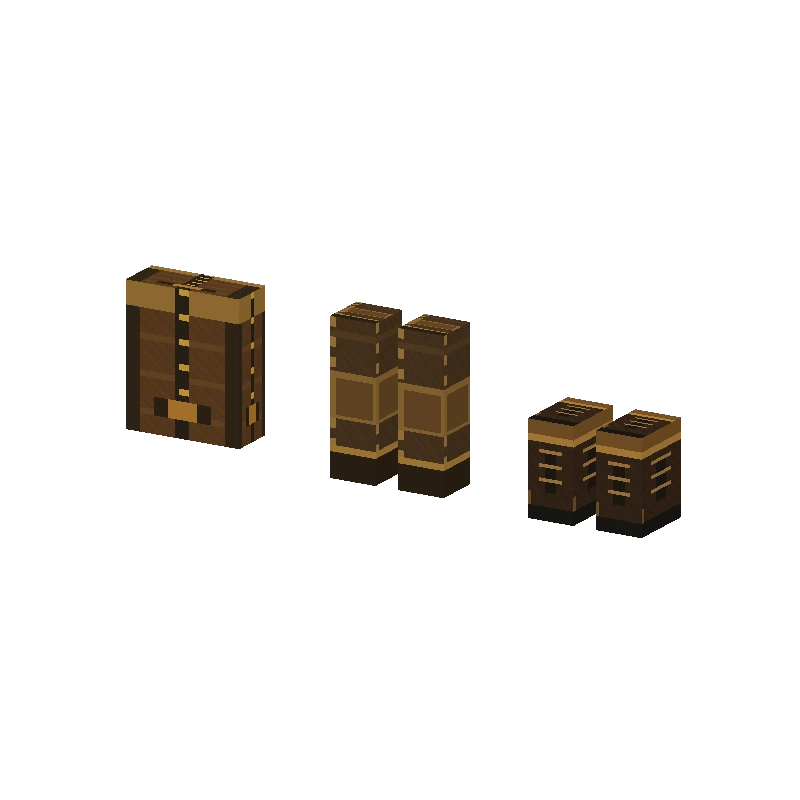
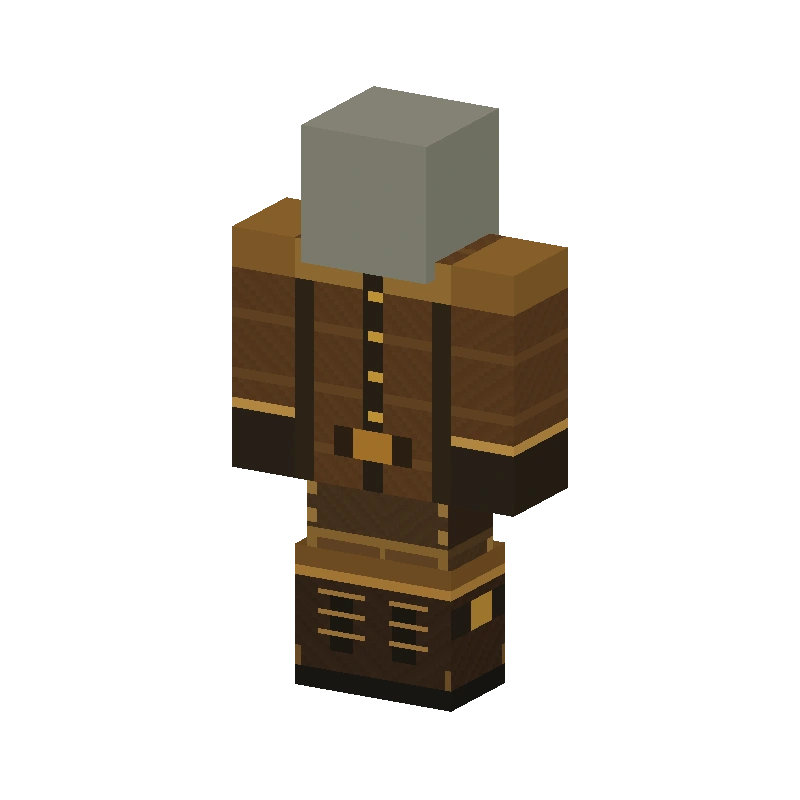
Show regalia worn on mannequins with actual armor textures

Changed region(s): [[0.1562, 0.0938, 0.875, 0.9062]]

diff --git a/components/season-road.tsx b/components/season-road.tsx
@@ -308,7 +308,7 @@ export function SeasonRoad() {
                   <Details reward={reward} />
                   <p className="reward-preview-note">
                     {preview?.source === "game-model"
-                      ? "Rendered from our actual game models and textures. Outfit bundles show the individual pieces. Studio lighting differs from the game."
+                      ? "Rendered from our actual game models and textures. Regalia is shown worn on a neutral mannequin using its in-game armor textures. Studio lighting differs from the game."
                       : reward.kind === "title"
                         ? "Nameplate preview. Your selected title appears with your character’s name."
                         : "Original reward artwork. In-game consumables currently use vanilla item appearances."}

diff --git a/app/season-pass/page.tsx b/app/season-pass/page.tsx
@@ -112,7 +112,7 @@ export default function SeasonPass() {
               src="/season/rewards/hollow_regent_regalia-large.webp"
               width={800}
               height={800}
-              alt="Actual Hollow Regent chest, leggings and boots models"
+              alt="Hollow Regent chest, leggings and boots worn together on a neutral mannequin"
               loading="lazy"
             />
             <img

diff --git a/scripts/render-season-assets.py b/scripts/render-season-assets.py
@@ -80,18 +80,61 @@ def render(polys,angle,size=360):
    w0=((b[1]-c[1])*(x-c[0])+(c[0]-b[0])*(y-c[1]))/den;w1=((c[1]-a[1])*(x-c[0])+(a[0]-c[0])*(y-c[1]))/den;w2=1-w0-w1
    z=w0*a[2]+w1*b[2]+w2*c[2];u=w0*uvt[0,0]+w1*uvt[1,0]+w2*uvt[2,0];vv=w0*uvt[0,1]+w1*uvt[1,1]+w2*uvt[2,1]
    pixels=tex[np.clip((vv*tex.shape[0]).astype(int),0,tex.shape[0]-1),np.clip((u*tex.shape[1]).astype(int),0,tex.shape[1]-1)].copy();pixels[:,:,:3]=(pixels[:,:,:3]*shade).astype(np.uint8)
-   zz=zbuf[mn[1]:mx[1]+1,mn[0]:mx[0]+1];mask=(w0>=-1e-6)&(w1>=-1e-6)&(w2>=-1e-6)&(z>zz)&(pixels[:,:,3]>10)
+   zz=zbuf[mn[1]:mx[1]+1,mn[0]:mx[0]+1];mask=(w0>=-1e-6)&(w1>=-1e-6)&(w2>=-1e-6)&(z>zz+1e-7)&(pixels[:,:,3]>10)
    output[mn[1]:mx[1]+1,mn[0]:mx[0]+1][mask]=pixels[mask];zz[mask]=z[mask]
  return Image.fromarray(output)
-manifest={}
+
+def worn_outfit(names):
+ # Player proportions, wearing the actual equipment layers rather than inventory icons.
+ # Coordinates are Y-up, front toward -Z. Vanilla armor uses a 64x32 UV atlas.
+ result=[]; provenance={}
+ parts={'body':([-4,12,-2],[4,24,2],16,16),
+        'arm':([-8,12,-2],[-4,24,2],40,16),
+        'leg':([-4,0,-2],[0,12,2],0,16)}
+ def cube(lo,hi,texture=None,u=0,v=0,inflate=0):
+  lo=np.array(lo,float);hi=np.array(hi,float);w,h,d=hi-lo
+  e=box((lo-inflate).tolist(),(hi+inflate).tolist(),'layer')
+  if texture is not None:
+   coords={'north':[u+d,v+d,u+d+w,v+d+h],
+           'south':[u+2*d+w,v+d,u+2*d+2*w,v+d+h],
+           'east':[u,v+d,u+d,v+d+h],
+           'west':[u+d+w,v+d,u+2*d+w,v+d+h],
+           'up':[u+d,v,u+d+w,v+d],
+           'down':[u+d+w,v+d,u+d+2*w,v]}
+   for face,uv in coords.items():e['faces'][face]['uv']=[uv[0]/4,uv[1]/2,uv[2]/4,uv[3]/2]
+  return geometry({'elements':[e]},{'layer':texture if texture is not None else solid((44,51,48))})
+ def mirrored(polys):return [(v*np.array([-1,1,1]),uv,tex,f) for v,uv,tex,f in polys]
+ for part,(lo,hi,u,v) in parts.items():
+  polys=cube(lo,hi);result+=polys
+  if part!='body':result+=mirrored(polys)
+ # A neutral studio mannequin keeps attention on the earned outfit; no extra helmet is implied.
+ result+=geometry({'elements':[box([-4,24,-4],[4,32,4],'head')]},{'head':np.full((16,16,4),(145,143,127,255),dtype=np.uint8)})
+ for name in names:
+  equipment_path=pack/'equipment'/f'{name}.json'
+  equipment=json.load(open(equipment_path));is_legs=name.endswith('_legs');is_boots=name.endswith('_boots')
+  layer='humanoid_leggings' if is_legs else 'humanoid'
+  tex_id=equipment['layers'][layer][0]['texture'].split(':')[1]
+  path=pack/'textures/entity/equipment'/layer/f'{tex_id}.png'
+  tex=np.array(Image.open(path).convert('RGBA'))
+  provenance[name]={'equipmentSha256':hashlib.sha256(equipment_path.read_bytes()).hexdigest(),'texture':str(path.relative_to(pack)),'textureSha256':hashlib.sha256(path.read_bytes()).hexdigest()}
+  for part in (['leg'] if is_boots else ['body','leg'] if is_legs else ['body','arm']):
+   lo,hi,u,v=parts[part];polys=cube(lo,hi,tex,u,v,.5 if is_legs else 1)
+   result+=polys
+   if part!='body':result+=mirrored(polys)
+ return result,provenance
+
+manifest=json.loads(Path('content/season-previews.json').read_text()) if len(sys.argv)>2 else {}
+armor_sources={}
 for rid,r in source['rewards'].items():
  if r['kind']=='title':continue
+ if len(sys.argv)>2 and rid not in sys.argv[2:]:continue
  polys=[];names=[]
  if r['kind']=='cosmetic':
   for i,asset in enumerate(r['assetIds']):
    name=mapping[asset.split(':')[1]];names.append(name);m,t=load(name)
-   # Outfit previews are a three-piece product lineup, not an invented worn mesh.
    polys+=geometry(m,t,((i-1)*18,0,0) if len(r['assetIds'])>1 else (0,0,0))
+  if rid.endswith('_regalia'):
+   polys,provenance=worn_outfit(names);armor_sources.update(provenance)
   origin='game-model'
  else:
   kind='supply' if r['kind']=='supplies' else 'scroll' if 'SCROLL' in r['giftReward'] else 'repair' if 'REPAIR' in r['giftReward'] else 'coins'
@@ -100,4 +143,5 @@ for rid,r in source['rewards'].items():
  render(polys,30,800).save(out/f'{rid}-large.webp',quality=94)
  manifest[rid]={'source':origin,'models':names,'frames':8,'image':f'/season/rewards/{rid}-0.webp','large':f'/season/rewards/{rid}-large.webp'}
 Path('content/season-previews.json').write_text(json.dumps(manifest,indent=2))
+if armor_sources:Path('docs/season-road/armor-sources.json').write_text(json.dumps(armor_sources,indent=2)+'\n')
 print(f'Rendered {len(manifest)} rewards, eight angles and large hero variants each.')

diff --git a/docs/season-road/README.md b/docs/season-road/README.md
@@ -4,7 +4,7 @@ Published design replaces the text-led catalog with four atmospheric road chapte
 
 ## Artwork and model provenance
 
-The21 cosmetic reward bundles use25 actual original resource-pack cuboid models and their authored face textures. `model-sources.json` records hashes of each source model and texture. Each visual reward has eight orthographic turntable angles plus an800px composition render;312 view frames were checked for nonempty alpha. Outfit previews show the three inventory-model pieces individually, not a simulated worn outfit. Studio lighting/rotation differs from vanilla rendering; these are model previews, not screenshots or new compatibility evidence.
+The21 cosmetic reward bundles use25 actual original resource-pack cuboid models and their authored face textures. `model-sources.json` records hashes of each source model and texture. Each visual reward has eight orthographic turntable angles plus an800px composition render;312 view frames were checked for nonempty alpha. Outfit previews now show the chest, leggings and boots worn together on a neutral player-proportioned mannequin. The renderer uses the actual humanoid and humanoid_leggings equipment textures with their armor UV layouts and outer/inner layer sizes. `armor-sources.json` records equipment definition and texture hashes. No helmet or other separately earned reward is added to the outfit. Studio lighting/rotation differs from vanilla rendering; these are model previews, not screenshots or new compatibility evidence.
 
 Original voxel pouch, scroll, repair-note and supply-crate artwork was authored in the render script. Coin/scroll palette follows common/uncommon/rare/epic tiers. These are website illustrations; in-game consumables still use vanilla item appearances, which the inspector states. Four titles use typographic nameplates. No game item appearance was changed by this website delivery.
 
